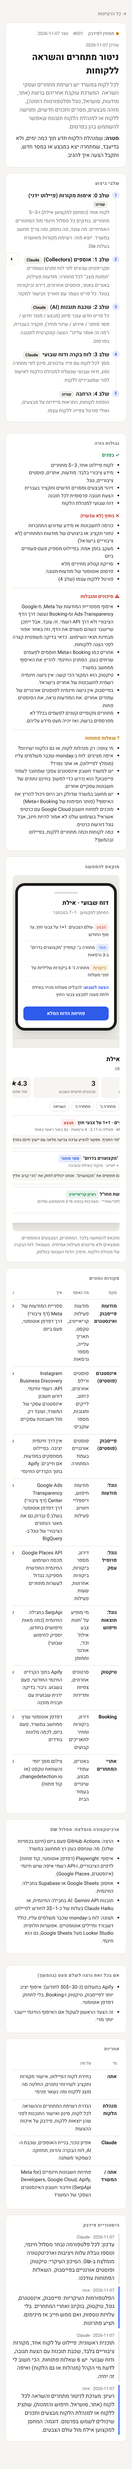
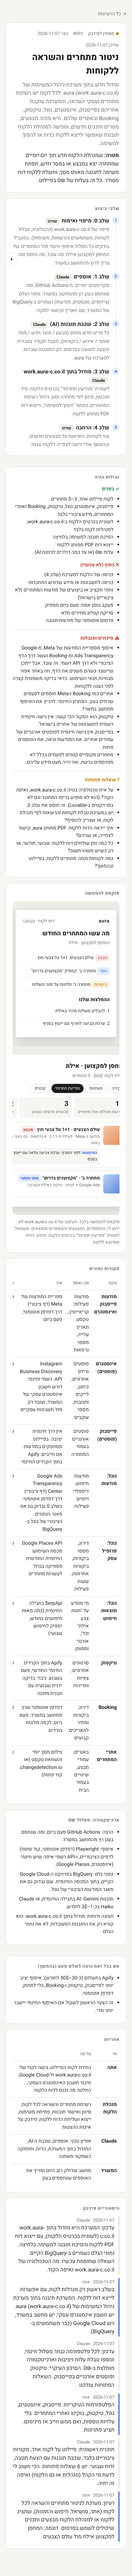
Idea 001: build as a module inside the aura work system
Account managers only, PDF export to client, insight-to-task, raw data in
the existing BigQuery project; updated mockup, owners and open questions.

Claude-Session: https://claude.ai/code/session_01GqXwLKGuNiB6isbJsXL8Lf

Changed region(s): [[0.0923, 0.0, 0.9231, 0.9974], [0.8923, 0.187, 0.9231, 0.2493]]

diff --git a/ideas/index.html b/ideas/index.html
@@ -147,35 +147,36 @@ const IDEAS = [
     status: 'feedback',
     created: '2026-11-07',
     updated: '2026-11-07',
-    summary: 'לכל לקוח במשרד יש רשימת מתחרים ועסקי השראה. המערכת עוקבת אחריהם ברשת (אתר, מודעות, סושיאל, גוגל ופלטפורמות הזמנה), מזהה מבצעים, מסרים ותכנים חדשים, ומגישה ללקוח או למנהלת הלקוח תובנות שאפשר להשתמש בהן בפרסום.',
-    goal: 'שמנהלת הלקוח תדע תוך כמה ימים, ולא בדיעבד, שמתחרה יצא במבצע או במסר חדש, ותקבל הצעה איך להגיב.',
+    summary: 'מודול חדש בתוך מערכת ניהול המשימות של aura (work.aura-c.co.il). לכל לקוח יש רשימת מתחרים ועסקי השראה, והמערכת עוקבת אחריהם בפייסבוק, אינסטגרם, גוגל, טיקטוק, Booking ובאתרים שלהם. היא מזהה מבצעים, מסרים ותכנים חדשים, ומגישה למנהלת הלקוח תובנות שאפשר לייצא ללקוח כדוח או להפוך למשימה.',
+    goal: 'שמנהלת הלקוח תדע תוך יום-יומיים שמתחרה יצא במבצע או במסר חדש, תפתח משימה לתגובה מאותו מסך, ותשלח ללקוח דוח מסודר. כל זה בעלות של 0₪ בפיילוט.',
     steps: [
-      {t:'שלב 0: אימות מקורות (פיילוט ידני)', d:'לקוח אחד (המחסן למקצוען אילת) ו-3–5 מתחרים. בודקים כל מסלול חינמי מול המתחרים האמיתיים: מה עובד, מה נחסם, ומה צריך מחשב במשרד. יוצא מזה: רשימת מקורות מאושרת בעלות 0₪.', who:'שנינו'},
-      {t:'שלב 1: אוספים (Collectors)', d:'סקריפטים שרצים לפי לוח זמנים ושומרים "תמונת מצב" לכל מתחרה: מודעות פעילות, באנרים באתר, פוסטים אחרונים, דירוג וביקורות בגוגל. כל פריט נשמר עם תאריך וקישור למקור.', who:'Claude'},
-      {t:'שלב 2: שכבת תובנות (AI)', d:'כל פריט חדש עובר סיווג (מבצע / מוצר חדש / מסר מותגי / אירוע / שינוי מחיר), תקציר בעברית, ו"מה זה אומר עלינו": הצעה קונקרטית לתגובה בפרסום.', who:'Claude'},
-      {t:'שלב 3: לוח בקרה ודוח שבועי', d:'מסך לכל לקוח עם פיד עדכונים, סינון לפי מתחרה וסוג, ודוח שבועי שנשלח למנהלת הלקוח לאישור לפני שמעבירים ללקוח.', who:'Claude'},
-      {t:'שלב 4: הרחבה', d:'הוספת לקוחות, התראות מיידיות על מבצעים, ואולי פורטל צפייה ללקוח עצמו.', who:'שנינו'},
+      {t:'שלב 0: מיפוי ואימות', d:'מיפוי של work.aura-c.co.il (טכנולוגיה, טבלת לקוחות, משתמשים והרשאות, משימות). במקביל בודקים כל מסלול איסוף חינמי מול המתחרים של המחסן למקצוען אילת: מה עובד, מה נחסם ומה צריך לרוץ מהמחשב במשרד.', who:'שנינו'},
+      {t:'שלב 1: אוספים', d:'סקריפטים יומיים: מ-GitHub Actions, ומה שנחסם בענן רץ מהמחשב במשרד. נתוני הגלם (צילומים, טקסטים, מודעות) נשמרים ב-BigQuery של המשרד, עם תאריך וקישור למקור.', who:'Claude'},
+      {t:'שלב 2: שכבת תובנות (AI)', d:'כל פריט חדש מסווג (מבצע / מוצר חדש / מסר מותגי / אירוע / ביקורות), מקבל תקציר בעברית והצעה לתגובה בפרסום. רק התובנות עוברות למערכת של aura.', who:'Claude'},
+      {t:'שלב 3: מודול בתוך work.aura-c.co.il', d:'לשונית "מודיעין תחרותי" בכרטיס הלקוח: פיד תובנות, סינון לפי מתחרה וסוג, ניהול רשימת המתחרים, כפתור "הפוך למשימה", וייצוא דוח PDF ממותג ללקוח.', who:'Claude'},
+      {t:'שלב 4: הרחבה', d:'עוד לקוחות, התראות על מבצעים חדשים, ובהמשך אולי גישה לצפייה ללקוח עצמו.', who:'שנינו'},
     ],
     owners: [
-      {who:'אתה', what:'בחירת לקוח הפיילוט, אישור מקורות ותקציב לשירותי נתונים, החלטה מה מוצג ללקוח ומה נשאר פנימי'},
-      {who:'מנהלת הלקוח', what:'הגדרת רשימת המתחרים וההשראה לכל לקוח, סינון ואישור התובנות לפני שהן יוצאות ללקוח, פידבק על איכות ההצעות'},
-      {who:'Claude', what:'אפיון טכני, בניית האוספים, שכבת ה-AI, לוח הבקרה והדוח, תחזוקה כשמקור משתנה'},
-      {who:'אתה / המשרד', what:'פתיחת חשבונות חינמיים (Meta for Developers, Google Cloud, Apify, SerpApi) וחיבור חשבון האינסטגרם העסקי של המשרד'},
+      {who:'אתה', what:'בחירת לקוח הפיילוט, גישה לקוד של work.aura-c.co.il ול-Google Cloud, חיבור חשבון האינסטגרם העסקי, החלטה מה נכנס לדוח הלקוח'},
+      {who:'מנהלת הלקוח', what:'רשימת מתחרים והשראה לכל לקוח, סינון ואישור תובנות, פתיחת משימות, ייצוא ושליחת הדוח ללקוח, פידבק על איכות ההצעות'},
+      {who:'Claude', what:'אפיון טכני, אוספים, שכבת ה-AI, המודול בתוך המערכת, הדוח, ותחזוקה כשמקור משתנה'},
+      {who:'המשרד', what:'מחשב שדולק רוב היום ומריץ את האוספים שנחסמים בענן'},
     ],
     inScope: [
       'לקוח פיילוט אחד, 3–5 מתחרים',
-      'מידע ציבורי בלבד: מודעות, אתרים, פוסטים ציבוריים, גוגל',
-      'זיהוי מבצעים ומסרים חדשים ותקציר בעברית',
-      'הצעת תגובה פרסומית לכל תובנה',
-      'דוח שבועי למנהלת הלקוח',
+      'פייסבוק, אינסטגרם, גוגל, טיקטוק, Booking ואתרי המתחרים, מידע ציבורי בלבד',
+      'לשונית בכרטיס הלקוח ב-work.aura-c.co.il, למנהלות לקוח בלבד',
+      'הפיכת תובנה למשימה בלחיצה',
+      'ייצוא דוח PDF ממותג ללקוח',
+      'עלות 0₪ (או עד כמה דולרים לניתוח AI)',
     ],
     outScope: [
+      'כניסה של הלקוח למערכת (שלב 4)',
       'כניסה לחשבונות או מידע שדורש התחברות',
       'נתוני תקציב או ביצועים של מודעות המתחרים (לא ציבוריים בישראל)',
-      'מעקב בזמן אמת: בפיילוט מספיק פעם-פעמיים ביום',
+      'מעקב בזמן אמת: פעם ביום מספיק',
       'סריקת קטלוג מחירים מלא',
       'פרסום אוטומטי של מודעות-תגובה',
-      'פורטל ללקוח עצמו (שלב 4)',
     ],
     risks: [
       'איסוף מספריית המודעות של Meta, מ-Google Ads Transparency ומ-Booking נעשה דרך הדף הציבורי ולא דרך API רשמי. זה עובד, אבל ייתכן שיישבר כשהם משנים את הדף, וזה באזור אפור מבחינת תנאי השימוש. כדאי בדיקה משפטית קצרה לפני הצגה ללקוחות.',
@@ -185,11 +186,10 @@ const IDEAS = [
       'מתחרים מקומיים קטנים לפעמים בכלל לא מפרסמים ברשת, ואז יהיה מעט מידע עליהם.',
     ],
     questions: [
-      'מי צופה: רק מנהלות לקוח, או גם הלקוח ישירות?',
-      'איפה מציגים: לוח ב-monday שכבר משלמים עליו (מומלץ לפיילוט), או אתר נפרד?',
-      'יש למשרד חשבון אינסטגרם עסקי שמחובר לעמוד פייסבוק? הוא נדרש כדי למשוך בחינם נתונים של חשבונות עסקיים אחרים.',
-      'יש מחשב במשרד שדולק רוב היום ויכול להריץ את האיסוף? (פותר חסימות של Booking ו-Meta)',
-      'מוכנים לפתוח חשבון Google Cloud עם כרטיס אשראי? בשימוש שלנו לא אמור להיות חיוב, אבל גוגל דורשת כרטיס.',
+      'על איזו טכנולוגיה בנויה work.aura-c.co.il, ואיפה הקוד? (הוא לא מופיע בריפו המחובר וגם לא בפרויקטים ב-Lovable). זה חוסם את שלב 3.',
+      'יש במערכת טבלת לקוחות והרשאות לפי מנהלת לקוח, או שצריך להוסיף?',
+      'איך ייראה הדוח ללקוח: PDF ממותג aura, קישור לצפייה, או שניהם?',
+      'כל כמה זמן שולחים דוח ללקוח: שבועי, חודשי, או רק כשיש משהו חשוב?',
       'כמה לקוחות וכמה מתחרים ללקוח, בפיילוט ובהמשך?',
     ],
     sources: [
@@ -204,65 +204,69 @@ const IDEAS = [
       {name:'אתרי המתחרים', what:'באנרים, עמודי מבצע, שינויים בעמוד הבית', how:'צילום מסך יומי והשוואת טקסט (או changedetection.io, קוד פתוח)', cost:'0₪', rel:'גבוהה', phase:'פיילוט'},
     ],
     notes: [
-      {title:'ארכיטקטורה מומלצת: מסלול 0₪', items:[
-        'הרצה: GitHub Actions פעם ביום (חינם בכמויות שלנו). מה שנחסם בענן רץ ממחשב במשרד.',
+      {title:'ארכיטקטורה: מסלול 0₪', items:[
+        'הרצה: GitHub Actions פעם ביום, ומה שנחסם בענן רץ מהמחשב במשרד.',
         'איסוף: Playwright (דפדפן אוטומטי, קוד פתוח) לדפים הציבוריים, ו-API רשמי איפה שיש חינמי (אינסטגרם, Google Places).',
-        'אחסון: Google Sheets או Supabase בחבילה החינמית.',
-        'תובנות AI: Gemini API בחבילה החינמית, או Claude Haiku בעלות של כ-1–3$ לחודש לפיילוט.',
-        'תצוגה: לוח ב-monday שכבר משלמים עליו, כולל דשבורד ומיילים אוטומטיים. אפשרות חלופית: Looker Studio מעל Google Sheets, גם הוא חינמי.',
+        'נתוני גלם: BigQuery בפרויקט ה-Google Cloud הקיים, בתוך המכסה החינמית. שם נבדוק גם את מאגר המודעות הציבורי של גוגל.',
+        'תובנות AI: Gemini בחבילה החינמית, או Claude Haiku בכ-1–3$ לחודש.',
+        'תצוגה ודוחות: מודול בתוך work.aura-c.co.il. הוא קורא רק את התובנות המעובדות, לא את נתוני הגלם.',
       ]},
       {title:'אם בכל זאת נרצה לשלם מעט (בהמשך)', items:[
         'Apify בתשלום (כ-30–50$ לחודש): איסוף יציב יותר לפייסבוק, טיקטוק ו-Booking, בלי לתחזק דפדפן אוטומטי.',
         'זה הצעד הראשון לשקול אם האיסוף החינמי יישבר יותר מדי.',
       ]},
     ],
-    mockNote: 'מוקאפ להמחשה בלבד. המתחרים, המבצעים והמספרים מומצאים ולא מייצגים פעילות אמיתית. משמאל: לוח הבקרה של מנהלת הלקוח. מימין: הדוח השבועי בטלפון.',
+    mockNote: 'מוקאפ להמחשה בלבד. העיצוב של work.aura-c.co.il לא ידוע לי, והמתחרים, המבצעים והמספרים מומצאים. משמאל: לשונית "מודיעין תחרותי" בכרטיס הלקוח. מימין: הדוח שמיוצא ללקוח.',
     mockup: `
       <div class="mock-pair">
-        <div class="phone">
-          <div class="bar"></div>
-          <p class="m-h">דוח שבועי · אילת</p>
-          <p class="m-p">המחסן למקצוען · 1–7 בנובמבר</p>
-          <div class="m-li"><span class="m-tag hot">מבצע</span> עולם הצבעים: 1+1 על צבעי חוץ, עד סוף החודש</div>
-          <div class="m-li"><span class="m-tag">מסר</span> מתחרה ב׳: קמפיין "מקצוענים בדרום" ב-3 גרסאות</div>
-          <div class="m-li"><span class="m-tag warn">ביקורות</span> מתחרה ג׳: 4 ביקורות שליליות על זמני משלוח</div>
-          <div class="m-li"><b style="color:#2f5bea">הצעה לשבוע:</b> להבליט משלוח מהיר באילת ולתת מענה למבצע צבעי החוץ</div>
-          <div class="m-btn">פתיחת הדוח המלא</div>
+        <div class="phone" style="border-radius:6px;border-width:1px;border-color:#d8d5ce;padding:22px 20px">
+          <div style="display:flex;justify-content:space-between;align-items:center;margin-bottom:12px"><b style="letter-spacing:.08em">aura</b><span class="m-p" style="margin:0">דוח לקוח · נובמבר</span></div>
+          <p class="m-h">מה עשו המתחרים החודש</p>
+          <p class="m-p">המחסן למקצוען · אילת</p>
+          <div class="m-li"><span class="m-tag hot">מבצע</span> עולם הצבעים: 1+1 על צבעי חוץ</div>
+          <div class="m-li"><span class="m-tag">מסר</span> מתחרה ב׳: קמפיין "מקצוענים בדרום"</div>
+          <div class="m-li"><span class="m-tag warn">ביקורות</span> מתחרה ג׳: תלונות על זמני משלוח</div>
+          <p class="m-h" style="font-size:14px;margin-top:14px">ההמלצות שלנו</p>
+          <div class="m-li">1. להבליט משלוח מהיר באילת</div>
+          <div class="m-li">2. ערכת צביעה לחורף עם ייעוץ בסניף</div>
         </div>
-        <div class="desk">
+        <div class="desk" style="display:flex;flex-direction:column">
           <div class="chrome"><i></i><i></i><i></i></div>
-          <div class="body">
-            <div class="m-top">
-              <div><p class="m-h">המחסן למקצוען · אילת</p><p class="m-p" style="margin:0">5 מתחרים · עודכן היום 08:00</p></div>
-              <span class="m-sel">7 ימים אחרונים ▾</span>
+          <div style="display:flex">
+            <div style="width:120px;background:#1c1b19;color:#cfcbc3;padding:14px 12px;font-size:12.5px;flex:none">
+              <b style="color:#fff;letter-spacing:.08em;display:block;margin-bottom:14px">aura</b>
+              <div style="margin-bottom:8px">משימות</div>
+              <div style="margin-bottom:8px;color:#fff">לקוחות</div>
+              <div style="margin-bottom:8px">צוות</div>
+              <div>דוחות</div>
             </div>
-            <div class="m-kpis">
-              <div><b>14</b><small>מודעות פעילות אצל מתחרים</small></div>
-              <div><b>3</b><small>מבצעים חדשים השבוע</small></div>
-              <div><b>4.3★</b><small>מול ממוצע מתחרים 4.1</small></div>
-            </div>
-            <div class="m-tabs"><span class="on">הכל</span><span>עולם הצבעים</span><span>מתחרה ב׳</span><span>מתחרה ג׳</span><span>השראה</span></div>
-            <div class="m-card">
-              <div class="m-thumb"></div>
-              <div>
-                <div class="t">עולם הצבעים · 1+1 על צבעי חוץ <span class="m-tag hot">מבצע</span></div>
-                <div class="s">מודעה ב-Meta · פעילה מ-3.11 · 4 גרסאות · גם באנר ראשי באתר</div>
-                <div class="m-idea"><b>הזדמנות:</b> לפני החורף. אפשר להציע ערכת צביעה מלאה עם ייעוץ חינם בסניף</div>
+            <div class="body" style="flex:1;min-width:0">
+              <div class="m-top">
+                <div><p class="m-h">המחסן למקצוען · אילת</p><p class="m-p" style="margin:0">מנהלת לקוח: [שם] · 5 מתחרים</p></div>
+                <span class="m-btn" style="margin:0;padding:6px 12px;font-size:12px">ייצוא דוח ללקוח ↓</span>
               </div>
-            </div>
-            <div class="m-card">
-              <div class="m-thumb b"></div>
-              <div>
-                <div class="t">מתחרה ב׳ · "מקצוענים בדרום" <span class="m-tag">מסר מותגי</span></div>
-                <div class="s">Google Ads + יוטיוב · מיקוד באילת ובערבה</div>
-                <div class="m-idea"><b>הזדמנות:</b> הם תופסים את "מקצוענים". אנחנו יכולים לחזק את "הכי קרוב אליך"</div>
+              <div class="m-tabs"><span>סקירה</span><span>משימות</span><span class="on">מודיעין תחרותי</span><span>קבצים</span></div>
+              <div class="m-kpis">
+                <div><b>14</b><small>מודעות פעילות אצל מתחרים</small></div>
+                <div><b>3</b><small>מבצעים חדשים השבוע</small></div>
+                <div><b>2</b><small>תובנות שהפכו למשימה</small></div>
               </div>
-            </div>
-            <div class="m-card">
-              <div class="m-thumb c"></div>
-              <div>
-                <div class="t">השראה · רשת מחו״ל <span class="m-tag ok">רעיון קריאייטיב</span></div>
-                <div class="s">סדרת רילס "לפני/אחרי" · מעורבות גבוהה פי 3 מהממוצע שלהם</div>
+              <div class="m-card">
+                <div class="m-thumb"></div>
+                <div style="flex:1">
+                  <div class="t">עולם הצבעים · 1+1 על צבעי חוץ <span class="m-tag hot">מבצע</span></div>
+                  <div class="s">מודעה ב-Meta · פעילה מ-3.11 · 4 גרסאות · גם באנר ראשי באתר</div>
+                  <div class="m-idea"><b>הזדמנות:</b> לפני החורף. ערכת צביעה מלאה עם ייעוץ חינם בסניף</div>
+                </div>
+                <span class="m-sel" style="align-self:flex-start;white-space:nowrap">+ משימה</span>
+              </div>
+              <div class="m-card">
+                <div class="m-thumb b"></div>
+                <div style="flex:1">
+                  <div class="t">מתחרה ב׳ · "מקצוענים בדרום" <span class="m-tag">מסר מותגי</span></div>
+                  <div class="s">Google Ads + יוטיוב · מיקוד באילת ובערבה</div>
+                </div>
+                <span class="m-tag ok" style="align-self:flex-start;white-space:nowrap">✓ משימה נפתחה</span>
               </div>
             </div>
           </div>
@@ -273,6 +277,8 @@ const IDEAS = [
       {date:'2026-11-07', from:'Claude', text:'תוכנית ראשונית: פיילוט על לקוח אחד, מקורות ציבוריים בלבד, שכבת תובנות עם הצעת תגובה, ודוח שבועי. יש 6 שאלות פתוחות. הכי חשוב לי לדעת מי הקהל (מנהלות או גם הלקוח) ואיפה זה יחיה.'},
       {date:'2026-11-07', from:'אתה', text:'הפלטפורמות העיקריות: פייסבוק, אינסטגרם, גוגל, טיקטוק, בוקינג ואתרי המתחרים. בלי עלויות נוספות, ואם ממש חייב אז מינימום. תציע פתרונות.'},
       {date:'2026-11-07', from:'Claude', text:'עדכון: לכל פלטפורמה נבחר מסלול חינמי, ונוספו טבלת עלות ויציבות וארכיטקטורה מומלצת ב-0₪. הסיכון העיקרי: טיקטוק ופוסטים אורגניים בפייסבוק. השאלות הפתוחות עודכנו.'},
+      {date:'2026-11-07', from:'אתה', text:'בשלב ראשון רק מנהלות לקוח, עם אפשרות לייצא דוח ללקוח. המערכת תיבנה בתוך מערכת ניהול המשימות של aura (work.aura-c.co.il). יש חשבון אינסטגרם עסקי, יש מחשב במשרד, ויש Google Cloud (כבר משתמשים ב-BigQuery).'},
+      {date:'2026-11-07', from:'Claude', text:'עדכון: המערכת היא מודול בתוך work.aura-c.co.il (לשונית בכרטיס הלקוח), עם ייצוא דוח PDF ללקוח והפיכת תובנה למשימה בלחיצה. נתוני הגלם נשמרים ב-BigQuery הקיים. השאלה שחוסמת עכשיו: מה הטכנולוגיה של work.aura-c.co.il ואיפה הקוד.'},
     ],
   },
 ];
